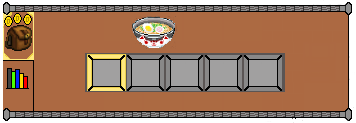
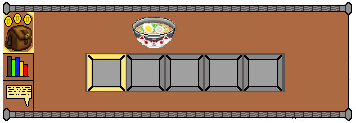
All aspects of phase 2 2 done, just need to put into one file

Changed region(s): [[0.0, 0.3902, 0.0927, 0.878], [0.0, 0.0976, 0.0309, 0.1463]]

diff --git a/Tests/Classes/GUI.py b/Tests/Classes/GUI.py
@@ -27,7 +27,6 @@ class GUI:
 
         self.health_stamina_frame = pygame.image.load('../Resources/health_stamina_frame.png')
         self.ramen_frame = pygame.image.load('../Resources/ramen_frame.png')
-        self.inv = [nothing_object, nothing_object, nothing_object, nothing_object, nothing_object]
 
     def increase_index(self, flag):
         if flag == True:
@@ -42,7 +41,7 @@ class GUI:
                 self.inventory_index = 4
             else:
                 self.inventory_index -= 1
-                
+
     def get_inv_index(self):
         return self.inventory_index
 
@@ -50,6 +49,7 @@ class GUI:
         self.health = self.player.get_stat(HEALTH)
         self.stamina = self.player.get_stat(STAMINA)
         #displays the frame surrounding health & stamina
+        self.inv = self.player.get_inventory()
 
         self.strength = self.player.get_skill(STRENGTH_SKILL, False)
         self.strength_exp = self.player.get_skill(STRENGTH_SKILL, True)
@@ -108,6 +108,8 @@ class GUI:
 
         if flag == True:
             DISPLAYSURF.blit(self.inventory_list[self.inventory_index], (320, 460))
+            #Displays ': (ramen amount)'
+            DISPLAYSURF.blit(ramSurface,ramRect)
         else:
             DISPLAYSURF.blit(self.inventory_frame_stats, (320, 460))
             DISPLAYSURF.blit(strengthSurf,strengthRect)
@@ -117,15 +119,12 @@ class GUI:
             pygame.draw.rect(DISPLAYSURF, BLUE, pygame.Rect(470, 510, self.intel_bar, 20))
             pygame.draw.rect(DISPLAYSURF, BLUE, pygame.Rect(450, 545, self.charisma_bar, 20))
 
-
-        # Displays the inventory
+    #    Displays the inventory
         x_pos = 415
         for item in self.inv:
-            image = pygame.image.load('../Resources/' + item)
-            if flag == True:
+            if item != None:
+                image = item.image
+            if flag == True and item != None:
                 #Displays the items
-                DISPLAYSURF.blit(image, (x_pos,518))
-                #Displays ': (ramen amount)'
-                DISPLAYSURF.blit(ramSurface,ramRect)
-
+                DISPLAYSURF.blit(image, (x_pos,520))
             x_pos += 38

diff --git a/README.md b/README.md
@@ -29,8 +29,8 @@ The game will be created in python using the pygame library.
 - Create a basic AI for guards - Done
 - Create basic prison objects - Done
 
-### Phase II
-- Playable character will be able to interact with objects and some NPCs
+### Phase II 
+- Playable character will be able to interact with objects and some NPCs - Done
 - Create camera movement to move with the player with the player in the center - Done
 - Expand the tiled map to get desired map size and design it for the prison - Done
 - UI will be able to move with the camera and make changes based on interactions - Done
